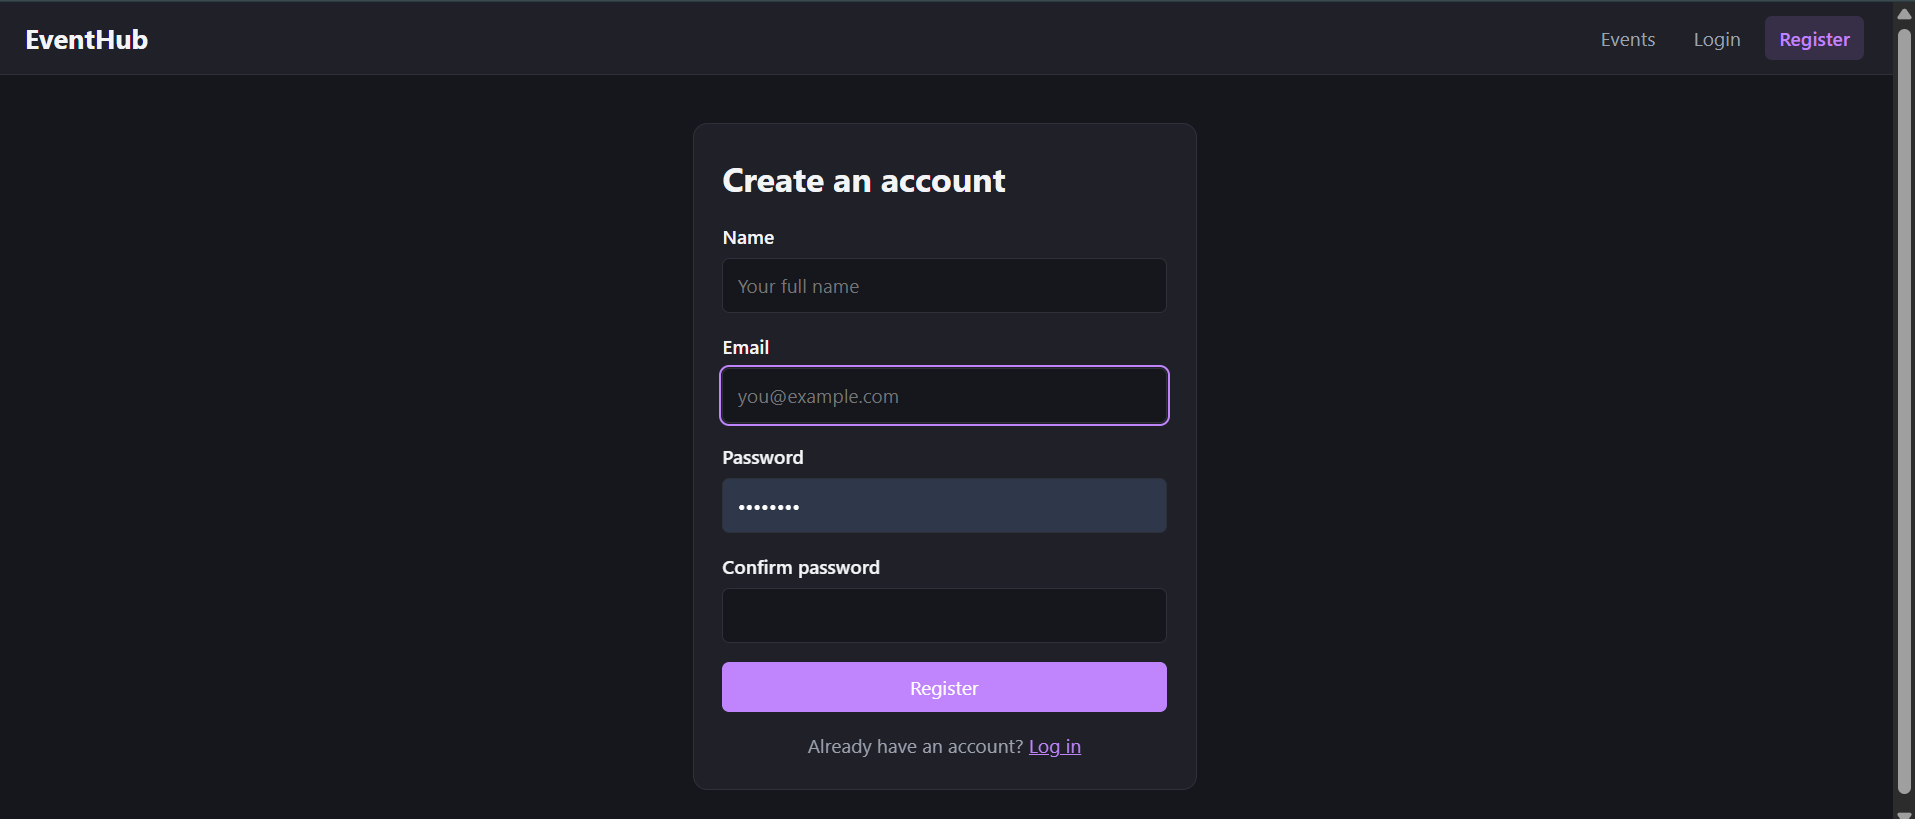
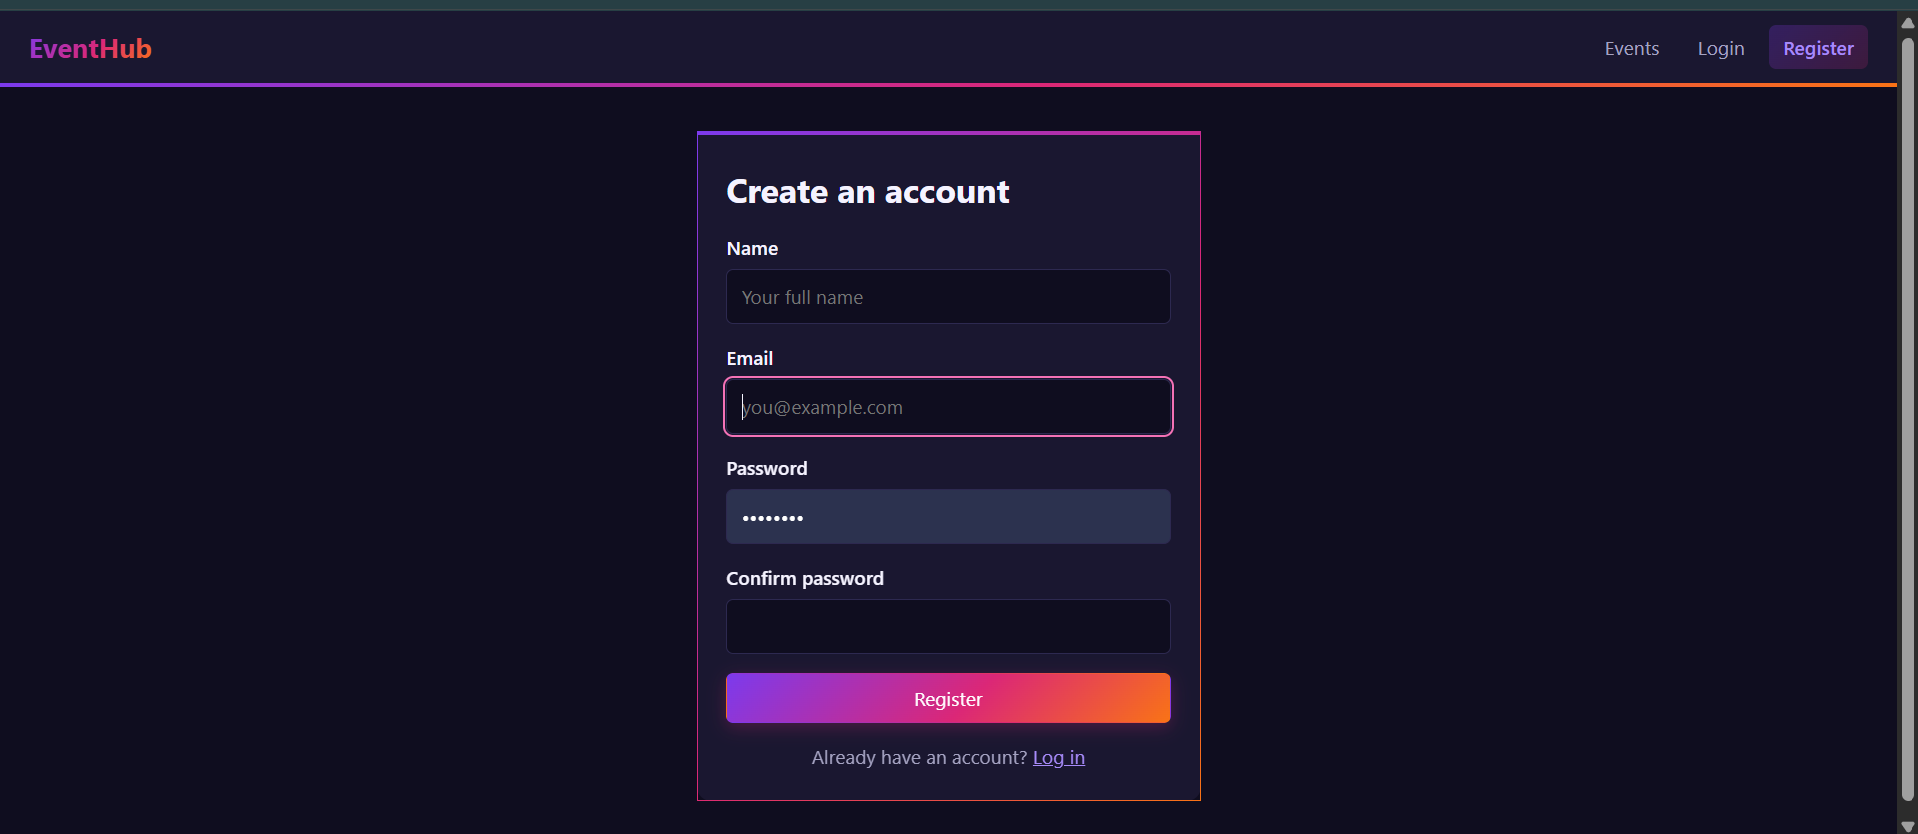
Update README screenshots with new theme

diff --git a/README.md b/README.md
@@ -20,19 +20,32 @@ An Event Management System built with **React**, **Redux Toolkit** and **React R
 
 ## 📸 Screenshots
 
+<p align="center">
+  <img src="docs/screenshots/events.webp" alt="Events page with gradient banner, colourful category chips and filters" />
+  <br />
+  <b>Browse & filter events</b><br />
+  <sub>Gradient hero banner, colour-coded category chips, keyword search, city and date filters</sub>
+</p>
+
 <table>
   <tr>
-    <td align="center" width="50%">
-      <img src="docs/screenshots/events.png" alt="Events page with search, category chips and filters" />
+    <td align="center" width="33%">
+      <img src="docs/screenshots/login.png" alt="Login page" />
       <br />
-      <b>Browse & filter events</b><br />
-      <sub>Keyword search, category chips, city and date range</sub>
+      <b>Log in</b><br />
+      <sub>Redirects you back after login</sub>
     </td>
-    <td align="center" width="50%">
-      <img src="docs/screenshots/register.png" alt="Create account form" />
+    <td align="center" width="33%">
+      <img src="docs/screenshots/register.png" alt="Create account page" />
       <br />
       <b>Create an account</b><br />
-      <sub>Validated form, saved with Redux + localStorage</sub>
+      <sub>Validated form, saved with Redux</sub>
+    </td>
+    <td align="center" width="33%">
+      <img src="docs/screenshots/my-events.png" alt="My Events page with Upcoming and Completed tabs" />
+      <br />
+      <b>My Events</b><br />
+      <sub>Upcoming and Completed tabs</sub>
     </td>
   </tr>
 </table>
@@ -77,7 +90,7 @@ An Event Management System built with **React**, **Redux Toolkit** and **React R
   </tr>
 </table>
 
-**Also included:** loading spinners, friendly error messages with *Try again*, form validation, 404 page, responsive layout for phones, and automatic light/dark mode.
+**Also included:** loading spinners, friendly error messages with *Try again*, form validation, 404 page, responsive layout for phones, automatic light/dark mode, and a colourful theme where every category has its own colour.
 
 ---
 
